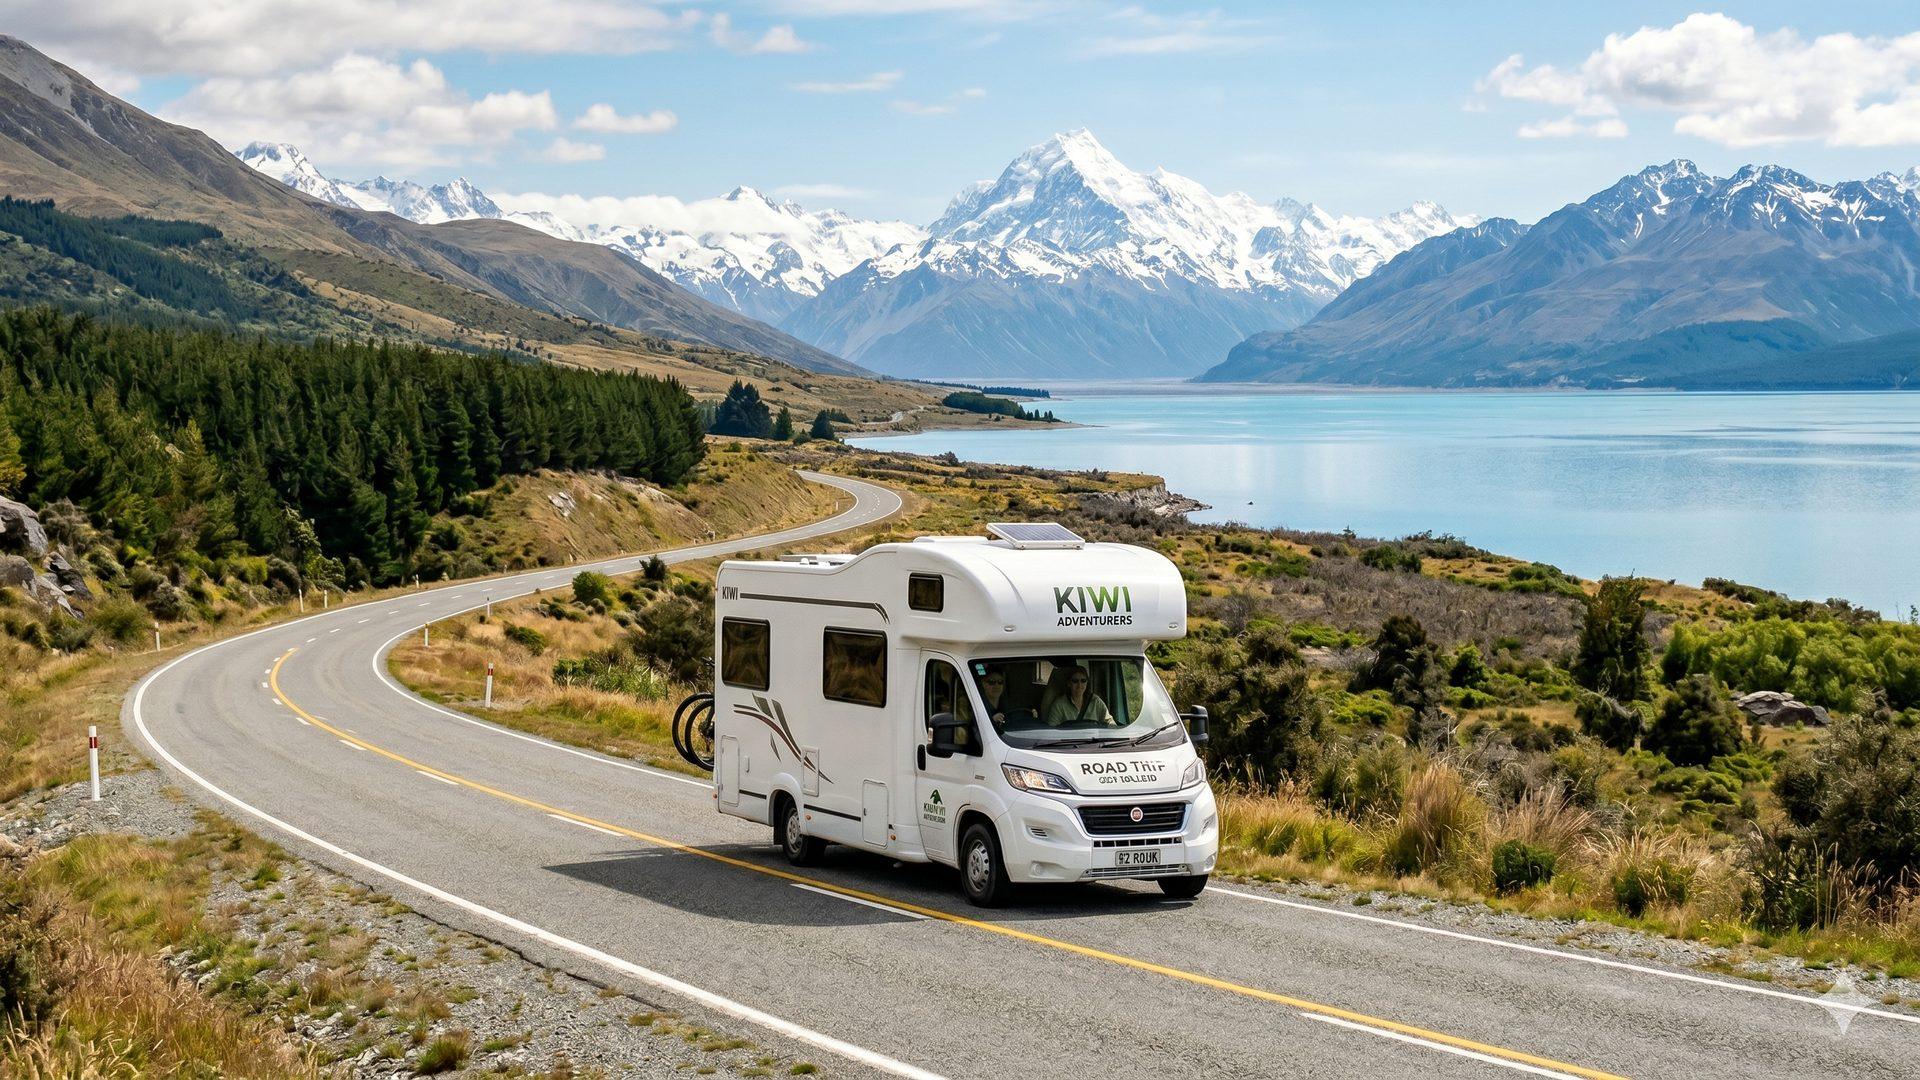
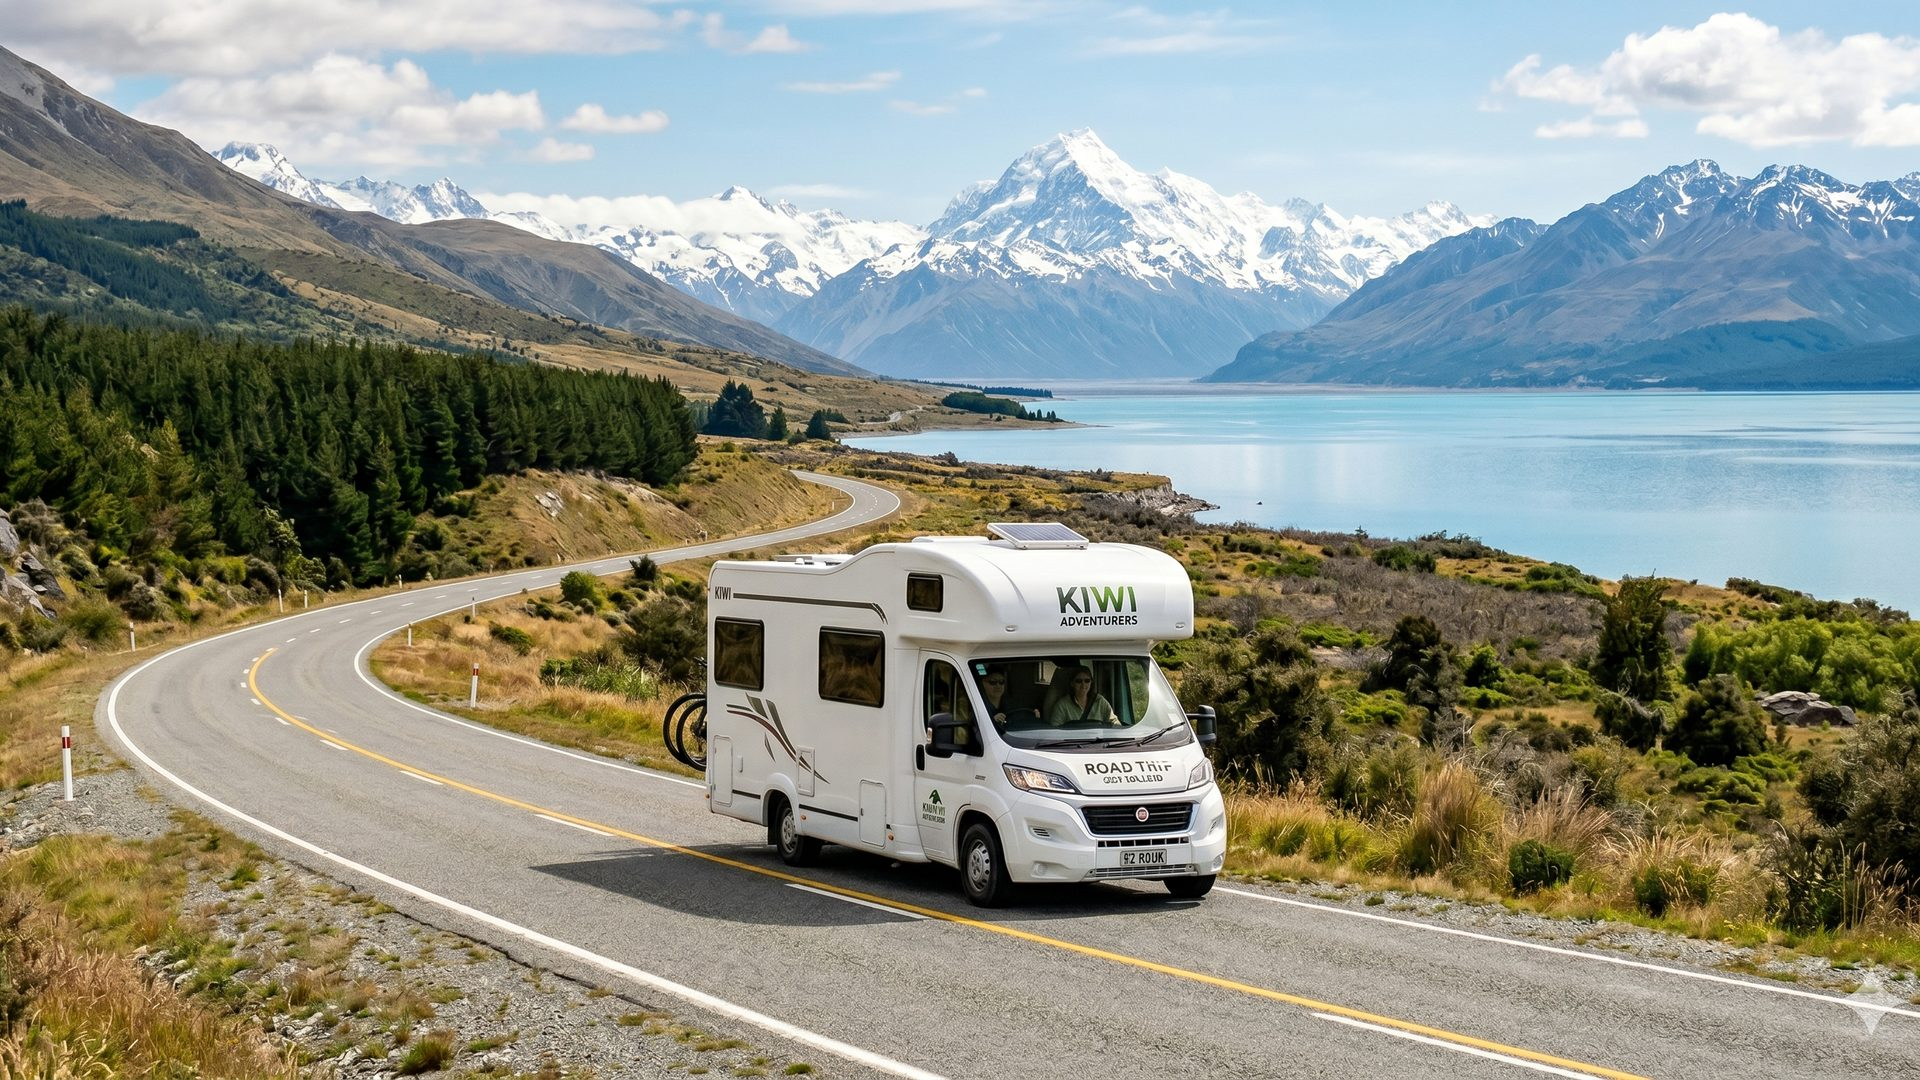
Add 7 custom NZ motorhome photos and rotate throughout site
- Convert all 7 customer-supplied PNGs to optimised 1920x1080 JPEGs (400-700KB each)
- HeroCarousel: expand from 3 slides to all 7 images
- types/[slug]: unique image per coverage type (all 7 used, none repeated)
- motorhome-insurance/[slug]: 31 landing pages each get a distinct image via slug map
- blog-posts.ts: replace all 19 Unsplash URLs with local images cycling 1-7

diff --git a/src/data/blog-posts.ts b/src/data/blog-posts.ts
@@ -17,7 +17,7 @@ export const blogPosts: BlogPost[] = [
     excerpt: 'Everything you need to know about insuring your motorhome in New Zealand — from what\'s covered to choosing the right policy for your lifestyle.',
     date: '2026-04-08',
     author: 'MotorHomeInsurance.co.nz',
-    image: 'https://images.unsplash.com/photo-1608161317310-c079ae39d224?w=800&h=450&fit=crop',
+    image: '/hero-motorhome-1.jpg',
     readTime: '9 min read',
     category: 'Insurance Guides',
     content: `<h2>Understanding Motorhome Insurance</h2>
@@ -64,7 +64,7 @@ export const blogPosts: BlogPost[] = [
     excerpt: 'Understanding the key differences between agreed and market value motorhome insurance policies and how to choose the right one for your needs.',
     date: '2026-04-05',
     author: 'MotorHomeInsurance.co.nz',
-    image: 'https://images.unsplash.com/photo-1596470689751-54f9687c1b7f?w=800&h=450&fit=crop',
+    image: '/hero-motorhome-2.jpg',
     readTime: '7 min read',
     category: 'Coverage Explained',
     content: `<h2>The Core Difference</h2>
@@ -102,7 +102,7 @@ export const blogPosts: BlogPost[] = [
     excerpt: 'A detailed breakdown of what standard motorhome insurance covers and what gaps you might need to fill with additional cover.',
     date: '2026-04-02',
     author: 'MotorHomeInsurance.co.nz',
-    image: 'https://images.unsplash.com/photo-1635787501769-10b8e23b3ded?w=800&h=450&fit=crop',
+    image: '/hero-motorhome-3.jpg',
     readTime: '8 min read',
     category: 'Coverage Explained',
     content: `<h2>Standard Comprehensive Motorhome Cover</h2>
@@ -135,7 +135,7 @@ export const blogPosts: BlogPost[] = [
     excerpt: 'Practical strategies to lower your motorhome insurance excess and improve your claim outcomes.',
     date: '2026-03-30',
     author: 'MotorHomeInsurance.co.nz',
-    image: 'https://images.unsplash.com/photo-1519001896312-85f41baa90a0?w=800&h=450&fit=crop',
+    image: '/hero-motorhome-4.jpg',
     readTime: '6 min read',
     category: 'Money-Saving Tips',
     content: `<h2>Understanding Your Excess</h2>
@@ -168,7 +168,7 @@ export const blogPosts: BlogPost[] = [
     excerpt: 'Comparing New Zealand\'s top motorhome insurance providers — their strengths, coverage options, and which suits different motorhome owners.',
     date: '2026-03-28',
     author: 'MotorHomeInsurance.co.nz',
-    image: 'https://images.unsplash.com/photo-1592351763700-b9b35a6465ea?w=800&h=450&fit=crop',
+    image: '/hero-motorhome-5.jpg',
     readTime: '10 min read',
     category: 'Provider Reviews',
     content: `<h2>Leading NZ Motorhome Insurance Providers</h2>
@@ -204,7 +204,7 @@ export const blogPosts: BlogPost[] = [
     excerpt: 'Understanding self-contained motorhomes and how this affects your insurance coverage and premiums.',
     date: '2026-03-26',
     author: 'MotorHomeInsurance.co.nz',
-    image: 'https://images.unsplash.com/photo-1635787501769-10b8e23b3ded?w=800&h=450&fit=crop',
+    image: '/hero-motorhome-6.jpg',
     readTime: '6 min read',
     category: 'Insurance Guides',
     content: `<h2>What Does Self-Contained Mean?</h2>
@@ -234,7 +234,7 @@ export const blogPosts: BlogPost[] = [
     excerpt: 'Guidance on insuring imported motorhomes in New Zealand, including unique considerations and coverage needs.',
     date: '2026-03-24',
     author: 'MotorHomeInsurance.co.nz',
-    image: 'https://images.unsplash.com/photo-1523987355523-c7b5b0dd90a7?w=800&h=450&fit=crop',
+    image: '/hero-motorhome-7.jpg',
     readTime: '7 min read',
     category: 'Insurance Guides',
     content: `<h2>Challenges of Insuring Imported Motorhomes</h2>
@@ -264,7 +264,7 @@ export const blogPosts: BlogPost[] = [
     excerpt: 'Practical, proven strategies to reduce your motorhome insurance costs without compromising on coverage.',
     date: '2026-03-22',
     author: 'MotorHomeInsurance.co.nz',
-    image: 'https://images.unsplash.com/photo-1626680114529-3f6ffa002b80?w=800&h=450&fit=crop',
+    image: '/hero-motorhome-1.jpg',
     readTime: '7 min read',
     category: 'Money-Saving Tips',
     content: `<h2>1. Increase Your Voluntary Excess</h2>
@@ -297,7 +297,7 @@ export const blogPosts: BlogPost[] = [
     excerpt: 'Understanding rental motorhome insurance, what the rental company covers, and when you need additional protection.',
     date: '2026-03-20',
     author: 'MotorHomeInsurance.co.nz',
-    image: 'https://images.unsplash.com/photo-1596470693312-9a3686a0af0f?w=800&h=450&fit=crop',
+    image: '/hero-motorhome-2.jpg',
     readTime: '6 min read',
     category: 'Rental Coverage',
     content: `<h2>What Comes with Rental Motorhome Insurance</h2>
@@ -327,7 +327,7 @@ export const blogPosts: BlogPost[] = [
     excerpt: 'An in-depth comparison of New Zealand\'s two leading specialist motorhome insurers — Covi Insurance and Star Insure\'s CamperCare. We compare coverage, price, and features to help you choose.',
     date: '2026-05-15',
     author: 'MotorHomeInsurance.co.nz Editorial Team',
-    image: 'https://images.unsplash.com/photo-1608161317310-c079ae39d224?w=800&h=450&fit=crop',
+    image: '/hero-motorhome-3.jpg',
     readTime: '8 min read',
     category: 'Provider Reviews',
     content: `<h2>Two Specialist Insurers — What's the Difference?</h2>
@@ -360,7 +360,7 @@ export const blogPosts: BlogPost[] = [
     excerpt: 'Understanding how motorhome insurance excess works in New Zealand, how to choose the right level, and how voluntary excess increases can reduce your annual premium.',
     date: '2026-05-15',
     author: 'MotorHomeInsurance.co.nz Editorial Team',
-    image: 'https://images.unsplash.com/photo-1519001896312-85f41baa90a0?w=800&h=450&fit=crop',
+    image: '/hero-motorhome-4.jpg',
     readTime: '8 min read',
     category: 'Coverage Explained',
     content: `<h2>What Is an Insurance Excess?</h2>
@@ -391,7 +391,7 @@ export const blogPosts: BlogPost[] = [
     excerpt: 'A complete guide to motorhome contents insurance in NZ — what\'s covered, what\'s excluded, how much you need, and which providers auto-include it.',
     date: '2026-05-15',
     author: 'MotorHomeInsurance.co.nz Editorial Team',
-    image: 'https://images.unsplash.com/photo-1592351763700-b9b35a6465ea?w=800&h=450&fit=crop',
+    image: '/hero-motorhome-5.jpg',
     readTime: '8 min read',
     category: 'Coverage Explained',
     content: `<h2>Why Motorhome Contents Insurance Matters</h2>
@@ -421,7 +421,7 @@ export const blogPosts: BlogPost[] = [
     excerpt: 'A complete 2026 update on New Zealand\'s freedom camping rules — where you can camp, self-containment requirements, council rules, fines for violations, and how your insurance is affected.',
     date: '2026-05-15',
     author: 'MotorHomeInsurance.co.nz Editorial Team',
-    image: 'https://images.unsplash.com/photo-1635787501769-10b8e23b3ded?w=800&h=450&fit=crop',
+    image: '/hero-motorhome-6.jpg',
     readTime: '8 min read',
     category: 'Insurance Guides',
     content: `<h2>The Freedom Camping Act 2011 — What It Actually Says</h2>
@@ -451,7 +451,7 @@ export const blogPosts: BlogPost[] = [
     excerpt: 'What happens to your motorhome insurance when your vehicle is in storage? Learn about laid-up cover, storage risks, and how to ensure you\'re protected even when you\'re not travelling.',
     date: '2026-05-15',
     author: 'MotorHomeInsurance.co.nz Editorial Team',
-    image: 'https://images.unsplash.com/photo-1626680114529-3f6ffa002b80?w=800&h=450&fit=crop',
+    image: '/hero-motorhome-7.jpg',
     readTime: '8 min read',
     category: 'Insurance Guides',
     content: `<h2>The Storage Gap — Are You Actually Covered?</h2>
@@ -478,7 +478,7 @@ export const blogPosts: BlogPost[] = [
     excerpt: 'Living in your motorhome full-time changes your insurance needs significantly. This guide covers what standard policies won\'t cover, what full-time living insurance looks like, and how to stay protected while living on the road.',
     date: '2026-05-15',
     author: 'MotorHomeInsurance.co.nz Editorial Team',
-    image: 'https://images.unsplash.com/photo-1596470689751-54f9687c1b7f?w=800&h=450&fit=crop',
+    image: '/hero-motorhome-1.jpg',
     readTime: '8 min read',
     category: 'Insurance Guides',
     content: `<h2>The Growing Full-Timer Movement in New Zealand</h2>
@@ -505,7 +505,7 @@ export const blogPosts: BlogPost[] = [
     excerpt: 'Comparing roadside assistance options for NZ motorhome owners — from AA and NZRA membership to Covi Wings and Star\'s bundled cover. What happens when you break down far from home?',
     date: '2026-05-15',
     author: 'MotorHomeInsurance.co.nz Editorial Team',
-    image: 'https://images.unsplash.com/photo-1523987355523-c7b5b0dd90a7?w=800&h=450&fit=crop',
+    image: '/hero-motorhome-2.jpg',
     readTime: '8 min read',
     category: 'Insurance Guides',
     content: `<h2>Why Motorhome Roadside Assistance Is Different</h2>
@@ -535,7 +535,7 @@ export const blogPosts: BlogPost[] = [
     excerpt: 'A complete guide to NZMCA membership — what you get, how it interacts with motorhome insurance, Covi\'s NZMCA partnership, member park discounts, and whether NZMCA membership is worth it.',
     date: '2026-05-15',
     author: 'MotorHomeInsurance.co.nz Editorial Team',
-    image: 'https://images.unsplash.com/photo-1608161317310-c079ae39d224?w=800&h=450&fit=crop',
+    image: '/hero-motorhome-3.jpg',
     readTime: '8 min read',
     category: 'Insurance Guides',
     content: `<h2>What Is NZMCA?</h2>
@@ -562,7 +562,7 @@ export const blogPosts: BlogPost[] = [
     excerpt: 'Are you making one of these costly motorhome insurance mistakes? From underinsuring contents to misunderstanding freedom camping cover, here are the seven most common errors NZ motorhome owners make.',
     date: '2026-05-15',
     author: 'MotorHomeInsurance.co.nz Editorial Team',
-    image: 'https://images.unsplash.com/photo-1626680114529-3f6ffa002b80?w=800&h=450&fit=crop',
+    image: '/hero-motorhome-4.jpg',
     readTime: '8 min read',
     category: 'Money-Saving Tips',
     content: `<h2>Mistake 1: Using a Standard Car Insurance Policy</h2>
@@ -592,7 +592,7 @@ export const blogPosts: BlogPost[] = [
     excerpt: 'A practical step-by-step guide to making a motorhome insurance claim in New Zealand — what to do immediately after an incident, how to document damage, and how to work with your insurer for a smooth settlement.',
     date: '2026-05-15',
     author: 'MotorHomeInsurance.co.nz Editorial Team',
-    image: 'https://images.unsplash.com/photo-1596470693312-9a3686a0af0f?w=800&h=450&fit=crop',
+    image: '/hero-motorhome-5.jpg',
     readTime: '8 min read',
     category: 'Insurance Guides',
     content: `<h2>Step 1: Ensure Safety First</h2>

diff --git a/src/app/motorhome-insurance/[slug]/page.tsx b/src/app/motorhome-insurance/[slug]/page.tsx
@@ -7,6 +7,41 @@ import BreadcrumbSchema from '@/components/BreadcrumbSchema';
 
 export const dynamicParams = false;
 
+/* ── Hero image map — cycles through all 7 local photos ── */
+const slugHeroImages: Record<string, string> = {
+  'cheap-motorhome-insurance-nz':         '/hero-motorhome-1.jpg',
+  'compare-motorhome-insurance-nz':       '/hero-motorhome-2.jpg',
+  'motorhome-insurance-cost-nz':          '/hero-motorhome-3.jpg',
+  'campervan-insurance-nz':               '/hero-motorhome-4.jpg',
+  'best-motorhome-insurance-nz':          '/hero-motorhome-5.jpg',
+  'motorhome-hire-insurance-nz':          '/hero-motorhome-6.jpg',
+  'motorhome-insurance-auckland':         '/hero-motorhome-7.jpg',
+  'motorhome-insurance-wellington':       '/hero-motorhome-1.jpg',
+  'motorhome-insurance-christchurch':     '/hero-motorhome-2.jpg',
+  'self-contained-motorhome-insurance-nz':'/hero-motorhome-3.jpg',
+  'imported-motorhome-insurance-nz':      '/hero-motorhome-4.jpg',
+  'luxury-motorhome-insurance-nz':        '/hero-motorhome-5.jpg',
+  'caravan-insurance-nz':                 '/hero-motorhome-6.jpg',
+  'rv-insurance-nz':                      '/hero-motorhome-7.jpg',
+  'nzmca-insurance-nz':                   '/hero-motorhome-1.jpg',
+  'freedom-camping-insurance-nz':         '/hero-motorhome-2.jpg',
+  'motorhome-insurance-hamilton':         '/hero-motorhome-3.jpg',
+  'motorhome-insurance-dunedin':          '/hero-motorhome-4.jpg',
+  'motorhome-insurance-queenstown':       '/hero-motorhome-5.jpg',
+  'motorhome-insurance-tauranga':         '/hero-motorhome-6.jpg',
+  'motorhome-insurance-palmerston-north': '/hero-motorhome-7.jpg',
+  'motorhome-insurance-nelson':           '/hero-motorhome-1.jpg',
+  'motorhome-insurance-rotorua':          '/hero-motorhome-2.jpg',
+  'motorhome-insurance-napier':           '/hero-motorhome-3.jpg',
+  'motorhome-insurance-new-plymouth':     '/hero-motorhome-4.jpg',
+  'motorhome-insurance-whangarei':        '/hero-motorhome-5.jpg',
+  'motorhome-insurance-invercargill':     '/hero-motorhome-6.jpg',
+  'motorhome-storage-insurance-nz':       '/hero-motorhome-7.jpg',
+  'seasonal-motorhome-insurance-nz':      '/hero-motorhome-1.jpg',
+  'full-time-motorhome-insurance-nz':     '/hero-motorhome-2.jpg',
+  'motorhome-insurance-over-65-nz':       '/hero-motorhome-3.jpg',
+};
+
 export async function generateStaticParams() {
   return insurancePages.map((page) => ({
     slug: page.slug,
@@ -695,7 +730,7 @@ export default async function InsuranceLandingPage({ params }: { params: Promise
       <section
         className="relative py-20 sm:py-28 px-4 sm:px-6 lg:px-8"
         style={{
-          backgroundImage: 'url(/hero-motorhome-2.jpg)',
+          backgroundImage: `url(${slugHeroImages[slug] || '/hero-motorhome-1.jpg'})`,
           backgroundSize: 'cover',
           backgroundPosition: 'center',
         }}

diff --git a/src/components/HeroCarousel.tsx b/src/components/HeroCarousel.tsx
@@ -3,18 +3,13 @@
 import { useState, useEffect, useCallback } from 'react';
 
 const heroImages = [
-  {
-    url: '/hero-motorhome-1.jpg',
-    alt: 'Motorhome parked in a stunning New Zealand landscape',
-  },
-  {
-    url: '/hero-motorhome-2.jpg',
-    alt: 'Motorhome on a scenic New Zealand road trip',
-  },
-  {
-    url: '/hero-motorhome-3.jpg',
-    alt: 'Modern motorhome adventure in New Zealand',
-  },
+  { url: '/hero-motorhome-1.jpg', alt: 'Motorhome parked in a stunning New Zealand landscape' },
+  { url: '/hero-motorhome-2.jpg', alt: 'Motorhome on a scenic New Zealand road trip' },
+  { url: '/hero-motorhome-3.jpg', alt: 'Modern motorhome adventure in New Zealand' },
+  { url: '/hero-motorhome-4.jpg', alt: 'Motorhome touring the New Zealand countryside' },
+  { url: '/hero-motorhome-5.jpg', alt: 'Motorhome parked at a New Zealand freedom camping spot' },
+  { url: '/hero-motorhome-6.jpg', alt: 'Motorhome on an open New Zealand highway' },
+  { url: '/hero-motorhome-7.jpg', alt: 'Self-contained motorhome in New Zealand' },
 ];
 
 export default function HeroCarousel() {

diff --git a/src/app/types/[slug]/page.tsx b/src/app/types/[slug]/page.tsx
@@ -11,11 +11,11 @@ const heroImages: Record<string, string> = {
   'comprehensive':            '/hero-motorhome-1.jpg',
   'third-party-liability':   '/hero-motorhome-2.jpg',
   'agreed-value':            '/hero-motorhome-3.jpg',
-  'market-value':            '/hero-motorhome-1.jpg',
-  'contents-cover':          '/hero-motorhome-2.jpg',
-  'rental-excess-reduction': '/hero-motorhome-3.jpg',
-  'roadside-assistance':     '/hero-motorhome-1.jpg',
-  'storage-cover':           '/hero-motorhome-2.jpg',
+  'market-value':            '/hero-motorhome-4.jpg',
+  'contents-cover':          '/hero-motorhome-5.jpg',
+  'rental-excess-reduction': '/hero-motorhome-6.jpg',
+  'roadside-assistance':     '/hero-motorhome-7.jpg',
+  'storage-cover':           '/hero-motorhome-1.jpg',
 };
 
 export async function generateStaticParams() {